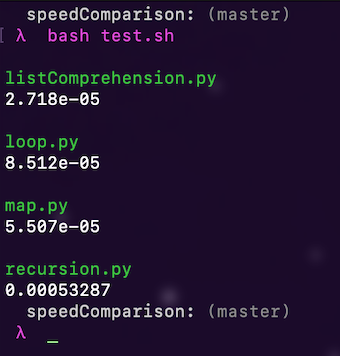
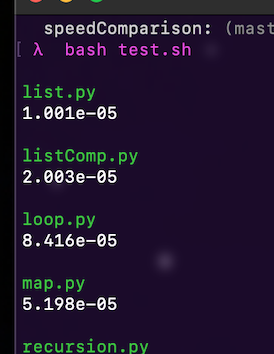
d

diff --git a/speedComparison/list.py b/speedComparison/list.py
@@ -1,0 +1,9 @@
+import time
+
+s =  time.time()
+
+x = list(range(500))
+
+e = time.time()  - s 
+
+print(round(e, 8))

diff --git a/print/PrintNegativeList.py b/print/PrintNegativeList.py
@@ -1,4 +1,4 @@
-lst = [1, 2, 3]
+lst = [1, 2, 3, 4, 5]
 
 def iterPrint(lst, l = len(lst)):
     i = l - 1

diff --git a/readme.md b/readme.md
@@ -52,35 +52,47 @@ recurse()
 
 ## Orders of speeds
 
-1. listComp.py:  
+1. list.py:
 
-` 2.718e-05`
+`1.216e-05`
 
-2. map.py:       
+2. listComp.py:  
 
-` 5.507e-05`
+` 2.503e-05`
 
-3. loop.py:      
+3. map.py:       
 
-` 8.512e-05`
+` 5.364e-05`
 
-4. recursion.py  
+4. loop.py:      
 
-` 5.329e-04`
+` 1.622e-05`
+
+5. recursion.py  
+
+` 3.379e-04`
 
 ## % Comparison of speeds
 
+list.py is:
+
+- 205.8% faster than listComp.py
+- 441.1% faster than map.py  
+- 788.2% faster than loop.py
+- 2779% faster than recursion.py  
+
+
 listComp.py is:
 
-- 202.6% faster than map.py
-- 313.2% faster than loop.py 
-- 2447% faster than recursion.py
+- 214.3% faster than map.py
+- 382.9% faster than loop.py 
+- 1400% faster than recursion.py
 
 map.py is:
 
-- 154.6% faster than loop.py  
-- 967.7% faster than recursion.py
+- 178.7% faster than loop.py  
+- 629.9% faster than recursion.py
 
 loop.py is:
 
-- 626.1% faster than recursion.py
+- 352.6% faster than recursion.py
